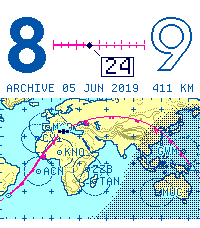
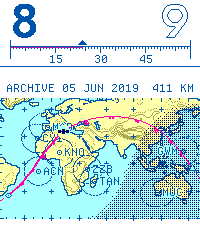
Read the hour on an instrument-style time scale
Replace the minute data block and the large map numerals with a
graduated scale across the top of the face, like an instrument tape or
a chart's scale bar: three pixels a minute, longer marks at five and
fifteen minutes, tall hour marks at both ends under equal hour figures
(this hour solid, the next in outline), and a solid triangular index.
The flown part of the hour fills in the route's color. The scale runs
the way the route runs, so its ends sit over their stations. An
optional plain minute figure replaces the data-block toggle.

Claude-Session: https://claude.ai/code/session_013jrbqnwLffJYPYurYaCgSZ

Changed region(s): [[0.0, 0.0, 1.0, 0.3377]]

diff --git a/src/enroute-render.js b/src/enroute-render.js
@@ -42,9 +42,11 @@ export const CONTOURS=[500,1000,2000,3000,4000,5000],SHELF=-200;
 // above a station's horizon (about 15.6 degrees of arc).
 const EARTH=6371,ORBIT=410,MASK=5*RAD;
 export const ACQUISITION=(Math.acos(EARTH*Math.cos(MASK)/(EARTH+ORBIT))-MASK)/RAD;
-export const FIGURE={hour:80,hourTwo:72};
+export const FIGURE={scale:40};
+// The time scale's panel: 180 px for 60 minutes, three pixels a minute.
+export const SCALE={x0:10,x1:190,baseline:46,panel:67};
 // Chart lettering: Departure Mono, drawn on the display's own pixel grid.
-const LABEL=departure.regular,TAG=departure.double;
+const LABEL=departure.regular;
 
 function plot(buf,x,y,c){x=Math.round(x);y=Math.round(y);if(x<0||y<0||x>=W||y>=H)return;const i=(y*W+x)*3;buf[i]=c[0];buf[i+1]=c[1];buf[i+2]=c[2];}
 function segment(a,b,fn){
@@ -100,7 +102,7 @@ export function contourLevel(relief,land,i){
 
 const BAYER=[0,8,2,10,12,4,14,6,3,11,1,9,15,7,13,5];
 const HEXAGON=['..###..','.#...#.','#.....#','.#...#.','..###..'],TRIANGLE=['....#....','...#.#...','...#.#...','..#...#..','..#...#..','.#.....#.','#########'];
-export function renderEnroute({camera,ground,relief,light:zones,plate,epoch,timeZone,clock24,tag=true}){
+export function renderEnroute({camera,ground,relief,light:zones,plate,epoch,timeZone,clock24,readout=false}){
   const pal=PLATES[plate],buf=new Uint8ClampedArray(W*H*3),mat=ground.material,sun=position('sun',Math.floor(epoch/MINUTE)*MINUTE).dir;
   const light=pal.night==='screen'?new Uint8Array(W*H):zones,land=mat.map(m=>m===LAND?1:0);
   const zoneAt=(x,y)=>light[Math.max(0,Math.min(H-1,Math.round(y)))*W+Math.max(0,Math.min(W-1,Math.round(x)))];
@@ -132,7 +134,7 @@ export function renderEnroute({camera,ground,relief,light:zones,plate,epoch,time
   };
   // Graticule: small crosses every five degrees (thirty on the world band)
   // and degree ticks along the edges of the map, like a chart's neatline.
-  const step=camera.world?30:5,minor=camera.world?10:1,{top,bottom}=camera.band,inBand=y=>y>=top&&y<=bottom;
+  const step=camera.world?30:5,minor=camera.world?10:1,{bottom}=camera.band,top=camera.world?camera.band.top:SCALE.panel,inBand=y=>y>=top&&y<=bottom;
   const g0=camera.toGround(0,bottom),g1=camera.toGround(W,top);
   for(let lat=Math.ceil(g0.lat/step)*step;lat<=g1.lat;lat+=step)for(let lon=Math.ceil(g0.lon/step)*step;lon<=g1.lon;lon+=step){
     const p=camera.toScreen(lat,lon),x=Math.round(p.x),y=Math.round(p.y);if(!inBand(y))continue;
@@ -180,7 +182,6 @@ export function renderEnroute({camera,ground,relief,light:zones,plate,epoch,time
     const p=track[i];if(!p.hour)continue;const m=Math.round((p.epoch-s0.epoch)/MINUTE);if(m%5||m===0||m===60)continue;
     const a=track[i-1],b=track[i+1],len=Math.hypot(b.x-a.x,b.y-a.y)||1;let nx=-(b.y-a.y)/len,ny=(b.x-a.x)/len;if(ny<0){nx=-nx;ny=-ny;}
     const size=m%15===0?4:2;for(let s=1;s<=size;s++)plot(buf,p.x+nx*s,p.y+ny*s,ink('route')(p.x,p.y));
-    if(m%15===0&&!camera.world){const label=String(m);letter(textPixels(LABEL,label,Math.round(p.x+nx*6-textWidth(LABEL,label)/2),Math.round(p.y+ny*6+8)),ink('route'),0);}
   }
   // This hour's station is a VOR: a hexagon inside a compass rose, north up.
   // The next hour is an open triangle, a reporting point.
@@ -214,42 +215,41 @@ export function renderEnroute({camera,ground,relief,light:zones,plate,epoch,time
     for(let k=-5;k<=5;k++){plot(buf,mx+k,my,mk);if(Math.abs(k)>=3){plot(buf,mx+k,my-1,mk);plot(buf,mx+k,my+1,mk);}}
     for(let k=-2;k<=2;k++)for(let d=-1;d<=1;d++)plot(buf,mx+d,my+k,mk);
   }
-  // The hours stand over their stations: this hour large, the next smaller.
+  // The hour is read on a scale across the top of the face, built like an
+  // instrument tape or a chart's scale bar: a baseline with minute, five-
+  // minute and quarter-hour graduations, tall hour marks at both ends with
+  // their figures, and a solid triangular index at the present minute. The
+  // scale runs the way the route does, so its ends match the stations below.
   const parts=clockParts(epoch,timeZone),h=Number(parts.h),hour=String(clock24?h:h%12||12),next=String(clock24?(h+1)%24:(h+1)%12||12);
-  // Both hours share one size and one baseline; the next is drawn in outline.
-  const big=hour.length>1||next.length>1?FIGURE.hourTwo:FIGURE.hour,hw=runWidth(hour,big),nw=runWidth(next,big);
-  const gx=Math.max(8,Math.min(W-8-hw,Math.round(c0.x-hw/2))),gy=camera.world?Math.round((top-runHeight(big))/2)-4:c0.y-26-runHeight(big);
-  const nx=Math.max(8,Math.min(W-8-nw,Math.round(c1.x-nw/2))),ny=gy;
-  const hourPixels=figurePixels(hour,big,gx,gy),nextSolid=figurePixels(next,big,nx,ny),inside=new Set(nextSolid.map(([a,b])=>a+','+b));
-  const nextPixels=nextSolid.filter(([a,b])=>[[1,0],[-1,0],[0,1],[0,-1],[2,0],[-2,0],[0,2],[0,-2]].some(([dx,dy])=>!inside.has((a+dx)+','+(b+dy))));
-  letter(hourPixels,ink('ink'));letter(nextPixels,ink('ink'));
-  // The minute rides with the body in a data block, as a radar display tags
-  // a target: a leader line from the symbol to a boxed readout. It points
-  // toward the middle of the screen so it never leaves the chart.
-  let tagBox=null;
-  const dataBlock=(ax,ay,down,color,reach=12)=>{
-    const text=parts.m,tw=textWidth(TAG,text),bw=tw+5,bh=20,side=ax>W/2?-1:1;
-    const ex=ax+side*Math.min(reach,12),ey=ay+(down?reach:-reach),bx=side>0?ex:ex-bw+1,by=down?ey:ey-bh+1;
-    const box={x:Math.max(2,Math.min(W-2-bw,bx)),y:by,w:bw,h:bh};
-    segment({x:ax+side*5,y:ay+(down?5:-5)},{x:ex,y:ey},(x,y)=>{clear(x+1,y);clear(x-1,y);});
-    segment({x:ax+side*5,y:ay+(down?5:-5)},{x:ex,y:ey},(x,y)=>plot(buf,x,y,color));
-    for(let y=box.y-1;y<=box.y+box.h;y++)for(let x=box.x-1;x<=box.x+box.w;x++)clear(x,y);
-    for(let x=box.x;x<box.x+box.w;x++){plot(buf,x,box.y,color);plot(buf,x,box.y+box.h-1,color);}
-    for(let y=box.y;y<box.y+box.h;y++){plot(buf,box.x,y,color);plot(buf,box.x+box.w-1,y,color);}
-    for(const [a,b] of textPixels(TAG,text,box.x+3,box.y+box.h-3))plot(buf,a,b,color);
-    tagBox=box;
-  };
-  if(camera.world){
-    // The ISS hour as a railway between its two figures: ties every five
-    // minutes, bold where the hour has run, a diamond at the present.
-    const left=Math.min(gx+hw,nx+nw)+7,right=Math.max(gx,nx)-7,ty=gy+Math.round(runHeight(big)/2),forward=nx>gx;
-    const f=Math.max(0,Math.min(1,(epoch-s0.epoch)/(60*MINUTE))),at=m=>forward?left+(right-left)*m/60:right-(right-left)*m/60;
-    const tx=Math.round(at(f*60)),rc=ink('route');
-    for(let x=left;x<=right;x++){plot(buf,x,ty,rc(x,ty));if(forward?x<=tx:x>=tx)plot(buf,x,ty-1,rc(x,ty));}
-    for(let m=0;m<=60;m+=5){const x=Math.round(at(m)),len=m%15===0?4:2;for(let d=1;d<=len;d++){plot(buf,x,ty-1-d,rc(x,ty));plot(buf,x,ty+d,rc(x,ty));}}
-    for(let dy=-3;dy<=3;dy++)for(let dx=-3;dx<=3;dx++){const r=Math.abs(dx)+Math.abs(dy);if(r<=4)clear(tx+dx,ty+dy);if(r<=3)plot(buf,tx+dx,ty+dy,mk);}
-    if(tag)dataBlock(tx,ty,true,ink('mark')(tx,ty));
-  }else if(tag)dataBlock(mx,my,true,mk,20);
+  const {x0:X0,x1:X1,baseline:B,panel:P}=SCALE,forward=c1.x>c0.x,at=m=>forward?X0+(X1-X0)*m/60:X1-(X1-X0)*m/60;
+  const minutes=Math.max(0,Math.min(60,(epoch-s0.epoch)/MINUTE)),ix=Math.round(at(Math.floor(minutes)));
+  for(let y=0;y<P;y++)for(let x=0;x<W;x++)plot(buf,x,y,pal.space);
+  const sc=()=>pal.spaceInk,fill=pal.route[0];
+  for(let x=0;x<W;x++)plot(buf,x,P-1,sc());
+  for(let x=X0;x<=X1;x++){plot(buf,x,B,sc());if(forward?x<=ix:x>=ix)plot(buf,x,B+1,fill);}
+  for(let m=0;m<=60;m++){
+    const x=Math.round(at(m)),len=m%60===0?12:m%15===0?6:m%5===0?4:2;
+    for(let d=1;d<=len;d++)plot(buf,x,B+d,sc());
+    if(m%60===0)for(let d=1;d<=6;d++)plot(buf,x,B-d,sc());
+    if(m%15===0&&m%60){const label=String(m),lw=textWidth(LABEL,label);for(const [a,b] of textPixels(LABEL,label,x-Math.floor(lw/2)+1,B+17))plot(buf,a,b,sc());}
+  }
+  // Both hours share one size; this hour is solid, the next in outline.
+  const size=FIGURE.scale,hw=runWidth(hour,size),nw=runWidth(next,size),place=(end,w)=>end===X0?X0+3:X1-w-2;
+  const gx=place(forward?X0:X1,hw),nx=place(forward?X1:X0,nw),gy=4;
+  const hourPixels=figurePixels(hour,size,gx,gy),nextSolid=figurePixels(next,size,nx,gy),inside=new Set(nextSolid.map(([a,b])=>a+','+b));
+  const nextPixels=nextSolid.filter(([a,b])=>[[1,0],[-1,0],[0,1],[0,-1]].some(([dx,dy])=>!inside.has((a+dx)+','+(b+dy))));
+  for(const [a,b] of hourPixels)plot(buf,a,b,sc());for(const [a,b] of nextPixels)plot(buf,a,b,sc());
+  // The index: a solid triangle on the graduations, pointing at the minute.
+  for(let k=0;k<6;k++)for(let d=-k;d<=k;d++){plot(buf,ix+d,B-7+k,pal.space);}
+  for(let k=0;k<5;k++)for(let d=-k;d<=k;d++)plot(buf,ix+d,B-6+k,sc());
+  let minuteBox=null;
+  if(readout){
+    // Optional digital minute, set plainly over the index.
+    const lw=textWidth(LABEL,parts.m),lo=Math.min(gx,nx)===X0+3?X0+3+Math.max(hw,nw)+3:X0+3,hi=X1-2-Math.max(hw,nw)-3-lw;
+    const lx=Math.max(Math.min(lo,hi),Math.min(Math.max(lo,hi),Math.round(ix-lw/2)));
+    for(const [a,b] of textPixels(LABEL,parts.m,lx,B-10))plot(buf,a,b,sc());
+    minuteBox={x:lx,y:B-18,w:lw,h:8};
+  }
   // Margins: the ISS archive and altitude; otherwise the date in the chart's
   // own terms, with the day of the year as mission control kept it.
   const margin=(l,r,y,color)=>{letter(textPixels(LABEL,l,6,y),color,1);letter(textPixels(LABEL,r,W-6-textWidth(LABEL,r),y),color,1);};
@@ -265,7 +265,7 @@ export function renderEnroute({camera,ground,relief,light:zones,plate,epoch,time
     margin(`${String(d.day).padStart(2,'0')} ${MONTHS[d.month-1]} ${d.year}`,`DAY ${String(d.dayOfYear).padStart(3,'0')}`,H-5,ink('ink'));
   }
   return {buf,marker:{x:p.x,y:p.y,lat:body.lat,lon:body.lon},stations,
-    figure:{hour,minute:parts.m,next,box:bounds(hourPixels),nextBox:bounds(nextSolid),tag:tagBox},rose:camera.world?null:{...c0,r:20}};
+    figure:{hour,minute:parts.m,next,box:bounds(hourPixels),nextBox:bounds(nextSolid),index:{x:ix,y:B},readout:minuteBox},rose:camera.world?null:{...c0,r:20}};
 }
 // The calendar date where the watch is, and its day of the year.
 const dateFormats=new Map();
@@ -279,15 +279,15 @@ export function localDate(epoch,timeZone){
 export class EnrouteRenderer{
   constructor(atlas,meters){this.atlas=atlas;this.meters=meters;this.stats={geometryBuilds:0,lightBuilds:0,renders:0};}
   render(state){
-    const {body,epoch,timeZone,clock24,plate}=state,tag=state.tag!==false,start=civilHour(epoch,timeZone);
+    const {body,epoch,timeZone,clock24,plate}=state,readout=!!state.readout,start=civilHour(epoch,timeZone);
     const geometryKey=`${body}/${start}`,lightKey=`${geometryKey}/${Math.floor(epoch/MINUTE)}`;
     if(this.geometryKey!==geometryKey){
       this.camera=chartCamera(body,start);this.ground=groundLayer(this.camera,this.atlas);this.relief=reliefLayer(this.camera,this.meters);
       this.geometryKey=geometryKey;this.stats.geometryBuilds++;
     }
     if(this.lightKey!==lightKey){this.light=lightLayer(this.ground,epoch);this.lightKey=lightKey;this.stats.lightBuilds++;}
-    const sceneKey=`${lightKey}/${timeZone}/${clock24}/${plate}/${tag}`;if(this.sceneKey===sceneKey)return this.last;
-    const out=renderEnroute({camera:this.camera,ground:this.ground,relief:this.relief,light:this.light,plate,epoch,timeZone,clock24,tag});
+    const sceneKey=`${lightKey}/${timeZone}/${clock24}/${plate}/${readout}`;if(this.sceneKey===sceneKey)return this.last;
+    const out=renderEnroute({camera:this.camera,ground:this.ground,relief:this.relief,light:this.light,plate,epoch,timeZone,clock24,readout});
     const zones=[0,0,0];for(const z of this.light)zones[z]++;
     this.sceneKey=sceneKey;this.stats.renders++;
     const rgba=new Uint8ClampedArray(W*H*4);for(let i=0;i<W*H;i++){rgba.set(out.buf.subarray(i*3,i*3+3),i*4);rgba[i*4+3]=255;}

diff --git a/index.html b/index.html
@@ -10,9 +10,9 @@
 <fieldset id="live-satellites"><legend>Live satellites</legend><div class="live-row"><select id="sat-select" aria-label="Satellite"></select><button id="sat-track">Track now</button></div><p class="help" id="sat-status">Current orbital elements come from CelesTrak, at most once every two hours per satellite, and are used only within three days of their own epoch.</p></fieldset>
 <fieldset id="moon-light"><legend>Moonlight</legend><div class="segmented"><button data-observation="day" aria-pressed="true">By day</button><button data-observation="dusk" aria-pressed="false">Nightfall</button><button data-observation="night" aria-pressed="false">By night</button></div><p class="help">The same Moon over three evenings. On the paper plates, night is a printed dot tint that deepens through civil twilight.</p></fieldset>
 <fieldset><legend>Plate</legend><div id="enroute-plates" class="theme-options"></div></fieldset>
-<fieldset><legend>Read the chart</legend><p class="help">The solid figure is this hour and the outlined one the next, set at one size on one baseline. The symbol between them is the present: its place on the route is the minute, read like a hand. A leader line ties it to a boxed data block with the minute in digits, the way a radar display tags a target; it can be switched off under Clock. The compass rose marks this hour’s station; the open triangle is the next hour’s reporting point. The magenta line is the route, bold behind the marker and fine ahead, with the quarter hours marked. Contours fall every 1,000 m, dotted at 500 m; offshore, the dotted blue line is the 200 m edge of the continental shelf. Three-letter codes are the tracking stations of NASA’s Mercury and Apollo networks. The margin carries the date and its day of the year.</p></fieldset>
-<details class="art-options"><summary>Clock</summary><div><label class="select-label" for="enroute-zone">Clock zone<select id="enroute-zone"><option value="America/New_York">Eastern time</option><option value="UTC">UTC</option><option value="Europe/London">London</option><option value="Asia/Kolkata">Kolkata</option></select></label><label class="art-checkbox"><input type="checkbox" id="enroute-24"> 24-hour figures</label><label class="art-checkbox"><input type="checkbox" id="enroute-tag" checked> Minute data block</label></div></details><div class="art-study-date"><span id="enroute-date"></span><span>FROZEN STUDY</span></div></aside></section>
+<fieldset><legend>Read the chart</legend><p class="help">The time is read on the scale across the top, built like an instrument tape or a chart’s scale bar. It has a graduation every minute, longer marks every five and fifteen, and tall hour marks at each end under their figures. The solid triangle is the index; the magenta fill behind it is the hour already flown. The scale runs the way the route runs on the map, so each end sits over its own station: this hour’s compass rose and the next hour’s reporting point. A plain minute figure can be added under Clock. Contours fall every 1,000 m, dotted at 500 m; offshore, the dotted blue line is the 200 m edge of the continental shelf. Three-letter codes are the tracking stations of NASA’s Mercury and Apollo networks. The margin carries the date and its day of the year.</p></fieldset>
+<details class="art-options"><summary>Clock</summary><div><label class="select-label" for="enroute-zone">Clock zone<select id="enroute-zone"><option value="America/New_York">Eastern time</option><option value="UTC">UTC</option><option value="Europe/London">London</option><option value="Asia/Kolkata">Kolkata</option></select></label><label class="art-checkbox"><input type="checkbox" id="enroute-24"> 24-hour figures</label><label class="art-checkbox"><input type="checkbox" id="enroute-readout"> Minute figure over the index</label></div></details><div class="art-study-date"><span id="enroute-date"></span><span>FROZEN STUDY</span></div></aside></section>
 <section class="compare"><div class="section-heading"><p class="eyebrow">AT READING SIZE</p><p>One display pixel per pixel. The same minute on each plate.</p></div><div id="enroute-proofs" class="comparison-grid"></div></section>
-<section class="reading art-reading"><article><p class="eyebrow">THE CHART</p><h2>Real ground, lightly drawn.</h2><p>Relief comes from NOAA’s ETOPO1 and the USGS GMTED2010 elevation models, generalized and contoured like a jet navigation chart. The continental shelf edge is the real 200 m depth line. Small crosses mark every five degrees, and degree ticks run around the edge like a neatline.</p></article><article><p class="eyebrow">THE ROUTE</p><h2>Two fixes and a magenta line.</h2><p>This hour is a VOR in its compass rose; the next is a reporting point. The route is the magenta line pilots follow on every modern display. The hours stand over their fixes; the minute travels between them in a radar-style data block on a leader line.</p></article><article><p class="eyebrow">THE NETWORK</p><h2>Where the astronauts were heard.</h2><p>Codes like TAN, CRO and GDS mark stations of the Mercury and Apollo tracking networks. For the ISS, each carries its acquisition circle, the reach of a low orbit, as drawn on the world maps of the first mission control rooms.</p></article></section>
+<section class="reading art-reading"><article><p class="eyebrow">THE CHART</p><h2>Real ground, lightly drawn.</h2><p>Relief comes from NOAA’s ETOPO1 and the USGS GMTED2010 elevation models, generalized and contoured like a jet navigation chart. The continental shelf edge is the real 200 m depth line. Small crosses mark every five degrees, and degree ticks run around the edge like a neatline.</p></article><article><p class="eyebrow">THE ROUTE</p><h2>Two fixes and a magenta line.</h2><p>This hour is a VOR in its compass rose; the next is a reporting point. The route is the magenta line pilots follow on every modern display. The hour is read on a graduated scale, like an instrument tape, with a triangular index; its ends match the fixes on the map.</p></article><article><p class="eyebrow">THE NETWORK</p><h2>Where the astronauts were heard.</h2><p>Codes like TAN, CRO and GDS mark stations of the Mercury and Apollo tracking networks. For the ISS, each carries its acquisition circle, the reach of a low orbit, as drawn on the world maps of the first mission control rooms.</p></article></section>
 <details class="technical"><summary>About this working study</summary><div><p>This is a browser design study, not an installable watchface. Every watch pixel is one of the display’s 64 RGB222 colors. The map is north-up and equidistant cylindrical; for the Sun and Moon the hour’s two stations sit 128 pixels apart, and the ISS, which travels about 240° of longitude in an hour, is shown on a world band. Scenes are frozen until you interact: there is no animation loop, polling, geolocation or sensor use.</p><p>Coastlines are Natural Earth 1:50m land. Relief is a quarter-degree grid built from the AWS Open Data Terrain Tiles at zoom 3, whose sources there are NOAA ETOPO1 and USGS GMTED2010, both public domain; heights are smoothed before contouring and are not for navigation. Day, civil twilight and night come from the calculated Sun at the selected minute. Tracking-station positions are approximate, from public histories of the networks. Acquisition circles show where a 410 km orbit rises five degrees above each station’s horizon, about 15.6° of arc.</p><p>Sun and Moon positions come from Astronomy Engine. The “ISS archive” view uses a bounded June 5, 2019 element set from Satellite.js. Live satellites use current element sets fetched from CelesTrak by this page (at most once every two hours per satellite, and only within three days of their epoch) and propagated with SGP4. Figures are Jost, after Futura; chart lettering is Departure Mono by Helena Zhang; headlines are Michroma, after Microgramma. All three are SIL OFL 1.1. <a href="./NOTICE.txt">Sources and credits</a>.</p><p id="enroute-diagnostics"></p><p>Other studies: <a href="./study-05.html">chart</a> · <a href="./study-04.html">Shorelight</a> · <a href="./study-03.html">two-ink atlas</a> · <a href="./study-02.html">sculptural globe</a> · <a href="./study-01.html">orbital explorer</a>.</p></div></details>
 </main><footer class="page-footer"><span>GROUNDTRACK / STUDY 06</span><span>CLEARED DIRECT TO THE NEXT HOUR.</span></footer><script type="module" src="/src/enroute-app.js"></script></body></html>

diff --git a/src/enroute-app.js b/src/enroute-app.js
@@ -12,7 +12,7 @@ const NOTES={
   moon:'The ground directly beneath the Moon. It also runs west, a little more slowly than the Sun.',
   iss:'An archived orbit from 5 June 2019. The station laps most of the world in an hour, so the whole world is the chart.'
 };
-const state={body:'sun',observation:'day',epoch:DEMOS.sun,timeZone:'America/New_York',clock24:false,plate:'enroute',tag:true};
+const state={body:'sun',observation:'day',epoch:DEMOS.sun,timeZone:'America/New_York',clock24:false,plate:'enroute',readout:false};
 let main,studyEpoch=state.epoch;
 const proofs={};
 function paint(canvas,buf){
@@ -21,12 +21,12 @@ function paint(canvas,buf){
 }
 function render(){
   const r=main.render(state);$('enroute-watch').getContext('2d').putImageData(new ImageData(r.rgba,W,H),0,0);
-  for(const plate of Object.keys(PLATES))paint(proofs[plate],plate===state.plate?r.buf:renderEnroute({camera:main.camera,ground:main.ground,relief:main.relief,light:main.light,plate,epoch:state.epoch,timeZone:state.timeZone,clock24:state.clock24,tag:state.tag}).buf);
+  for(const plate of Object.keys(PLATES))paint(proofs[plate],plate===state.plate?r.buf:renderEnroute({camera:main.camera,ground:main.ground,relief:main.relief,light:main.light,plate,epoch:state.epoch,timeZone:state.timeZone,clock24:state.clock24,readout:state.readout}).buf);
   for(const key of ['body','observation','plate'])document.querySelectorAll(`[data-${key}]`).forEach(b=>b.setAttribute('aria-pressed',String(b.dataset[key]===state[key])));
   document.querySelectorAll('[data-observation]').forEach(b=>b.disabled=state.body!=='moon');$('moon-light').classList.toggle('muted',state.body!=='moon');
   $('enroute-minute').value=Math.round((state.epoch-r.start)/MINUTE);$('enroute-time').textContent=r.time;
   $('range-start').textContent=clockParts(r.start,state.timeZone).text;$('range-end').textContent=clockParts(r.start+60*MINUTE,state.timeZone).text;
-  $('enroute-zone').value=state.timeZone;$('enroute-24').checked=state.clock24;$('enroute-tag').checked=state.tag;
+  $('enroute-zone').value=state.timeZone;$('enroute-24').checked=state.clock24;$('enroute-readout').checked=state.readout;
   const sat=catalogEntry(state.body),elements=elementsFor(state.body);
   $('enroute-date').textContent=new Date(state.epoch).toISOString().slice(0,10);$('body-note').textContent=sat?sat.note:NOTES[state.body];
   const lat=r.marker.lat,lon=((r.marker.lon+540)%360)-180,place=`${Math.abs(lat).toFixed(1)}°${lat<0?'S':'N'} ${Math.abs(lon).toFixed(1)}°${lon<0?'W':'E'}`;
@@ -98,6 +98,6 @@ try{
   $('enroute-reset').addEventListener('click',()=>{state.epoch=studyEpoch;render();});
   $('enroute-zone').addEventListener('change',()=>{state.timeZone=$('enroute-zone').value;render();});
   $('enroute-24').addEventListener('change',()=>{state.clock24=$('enroute-24').checked;render();});
-  $('enroute-tag').addEventListener('change',()=>{state.tag=$('enroute-tag').checked;render();});
+  $('enroute-readout').addEventListener('change',()=>{state.readout=$('enroute-readout').checked;render();});
   render();window.groundtrackEnroute={ready:true,state,main,render,track,demos:DEMOS,observations:OBSERVATIONS};
 }catch(error){$('enroute-caption').textContent=`The chart could not load: ${error.message}. Please reload.`;console.error(error);}

diff --git a/tools/generate-enroute-font.py b/tools/generate-enroute-font.py
@@ -12,7 +12,7 @@ from PIL import Image, ImageDraw, ImageFont
 
 root = Path(__file__).resolve().parent.parent
 WEIGHT = 600
-HEIGHTS = {'72': 49, '80': 55}  # two-digit hours, single-digit hours
+HEIGHTS = {'40': 34}  # hour figures over the scale's end marks
 
 
 def font(size):

diff --git a/docs/STUDY-06.md b/docs/STUDY-06.md
@@ -11,12 +11,12 @@ The Study 05 chart, redrawn in the language of aeronautical charts and of NASA's
 - **Graticule.** Small crosses every 5° (30° on the ISS world band). Degree ticks run around the edge of the map like a chart's neatline, with a longer tick every 5°.
 - **The route.** The magenta line, which pilots follow on every glass cockpit. It is bold behind the marker, fine ahead and dashed before and after the hour. Ticks mark five minutes, with longer ticks labelled 15, 30 and 45 at the quarters, as on a plotted ground track.
 - **Fixes.** This hour's station is a VOR: a hexagon inside a compass rose, with 30° ticks, longer cardinal ticks and a north arrowhead. The next hour is an open triangle, a reporting point. The map is north-up, so the rose shows true north, not magnetic variation.
-- **The time.** Both hours are set at one size on one baseline, each over its station: this hour solid, the next in a two-pixel outline, because it has not arrived yet. The minute is not attached to the hour: it travels between them. The body's place on the route is the analog reading. A leader line ties the body to a boxed **data block** with the minute in Departure Mono digits, the way a radar display tags a target with a leader line and a data block. The block always points toward the middle of the screen, drops below the route's quarter marks, and can be switched off to leave a purely analog read. On the ISS band the hour runs on a **railway** between the two figures instead: a line with ties every five minutes, bold where the hour has run, a diamond at the present and the same data block beneath it.
+- **The time scale.** The hour is read on a graduated scale across the top of the face, built like an instrument tape or the scale bar in a chart's margin. It is 180 px for 60 minutes, exactly three pixels a minute, so every graduation is evenly spaced. There is a mark every minute, longer marks every five minutes and at the quarters (labelled 15, 30 and 45), and tall hour marks at both ends. The two hour figures stand over those end marks at one size: this hour solid, the next in outline. A solid triangular index points at the present minute, and the hour already flown fills the scale in the route's color. The scale runs the way the route runs on the map, right to left for the Sun and Moon, so each end sits over its own station. An optional plain minute figure can be set over the index. The earlier radar-style data block and the minutes raised beside the hour were both tried and dropped.
 - **Date.** The zoomed views print the local date and its day of the year in the bottom margin (`27 SEP 2026 · DAY 270`). The day of the year is how Mission Control's clocks counted days. The ISS margin keeps its archive date and altitude.
 - **The present.** The body's own symbol: ☉ for the Sun, the Moon in its calculated phase, or a small station for the ISS.
 - **The network.** Twenty-four stations of the Mercury (1961–63) and Apollo (1967–75) tracking networks, drawn as circled points with their network codes. Examples include TAN (Tananarive, Madagascar), ZZB (Zanzibar), CRO (Carnarvon) and GDS (Goldstone). When labels would collide, the station earlier in the list wins.
 - **Acquisition circles.** On the ISS world band, each station also carries the circle within which a 410 km orbit rises 5° above its horizon, about 15.6° of arc. The circles are computed on the sphere, so they widen toward the poles, as they did on the Mercator plotboards.
-- **Type.** The figures are set in Jost (SIL OFL 1.1), a revival of Futura, the face of the Apollo 11 plaque and many mission patches. Jost replaced Fira Sans after a side-by-side test on the face. Barlow (a DIN-style face) was the close second; Michroma was too wide for the figures at this size. The chart lettering (station codes, quarter-hour marks and margin notes) is [Departure Mono](https://github.com/rektdeckard/departure-mono) (SIL OFL 1.1). It is a pixel face drawn on an 11 px grid, so at 11 px every pixel is fully on or off. A double-size Departure minute set directly after the hour looked spindly, but the same digits work well as the separate data block. On the page, headlines use Michroma (after Microgramma, the lettering of 1960s space hardware), text uses Jost, and small type uses Departure Mono.
+- **Type.** The figures are set in Jost (SIL OFL 1.1), a revival of Futura, the face of the Apollo 11 plaque and many mission patches. Jost replaced Fira Sans after a side-by-side test on the face. Barlow (a DIN-style face) was the close second; Michroma was too wide for the figures at this size. The chart lettering (station codes, quarter-hour marks and margin notes) is [Departure Mono](https://github.com/rektdeckard/departure-mono) (SIL OFL 1.1). It is a pixel face drawn on an 11 px grid, so at 11 px every pixel is fully on or off. A double-size Departure minute set directly after the hour looked spindly. On the page, headlines use Michroma (after Microgramma, the lettering of 1960s space hardware), text uses Jost, and small type uses Departure Mono.
 - **Honest margins.** The ISS view states `ARCHIVE 05 JUN 2019` and the station's altitude, because it is a bounded archive, not live data.
 - **Night.** The paper plates print night as a regular dot screen under every symbol. The screen deepens from nothing at sunset to 25% at the end of civil twilight, which is how a printed chart would overprint a tint. The Plotboard keeps flat light zones.
 

diff --git a/README.md b/README.md
@@ -1,6 +1,6 @@
 # Groundtrack
 
-**The current hour, the next hour, and a path between them.** The ground route of the Sun, Moon or ISS is drawn as an aeronautical chart. Contour relief comes from real elevation data, a magenta route runs between this hour's compass rose and the next hour's reporting point, and the time is set like a chart's maximum elevation figure. The tracking stations of NASA's first networks mark the map, and the calculated Sun brings the night.
+**The current hour, the next hour, and a path between them.** The ground route of the Sun, Moon or ISS is drawn as an aeronautical chart. Contour relief comes from real elevation data, a magenta route runs between this hour's compass rose and the next hour's reporting point, and the time is read on a graduated scale with a triangular index, like an instrument tape. The tracking stations of NASA's first networks mark the map, and the calculated Sun brings the night.
 
 An independent Pebble Time 2 concept, following the pixel-rendering and battery work in [Dymaxion](https://github.com/huntrontrakkr/dymaxion-watch-face). Groundtrack is a working title. This repository contains **browser design studies and a trajectory-cache experiment**, not an installable watchface.
 
@@ -15,7 +15,7 @@ npm ci
 npm run dev
 ```
 
-Open the URL printed by Vite. **Study 06 — Enroute** is the default. It draws in the language of aeronautical charts and 1960s mission control plotboards: contour relief and the continental shelf edge from public-domain elevation data, a graticule with neatline ticks, and the magenta route. A VOR compass rose marks this hour and a reporting point the next. The hour is set large with its minutes raised, and Mercury and Apollo tracking stations appear with their network codes. Three plates are provided: Enroute (IFR white), Sectional (VFR cream) and Plotboard (mission control). Five satellites can be tracked live from CelesTrak element sets: ISS, Tiangong, Hubble, Landsat 9 and NOAA-20. [The Study 06 notes](docs/STUDY-06.md) describe each symbol, the data and the exploration.
+Open the URL printed by Vite. **Study 06 — Enroute** is the default. It draws in the language of aeronautical charts and 1960s mission control plotboards: contour relief and the continental shelf edge from public-domain elevation data, a graticule with neatline ticks, and the magenta route. A VOR compass rose marks this hour and a reporting point the next, and the time is read on a graduated instrument-style scale with a triangular index. Mercury and Apollo tracking stations appear with their network codes. Three plates are provided: Enroute (IFR white), Sectional (VFR cream) and Plotboard (mission control). Five satellites can be tracked live from CelesTrak element sets: ISS, Tiangong, Hubble, Landsat 9 and NOAA-20. [The Study 06 notes](docs/STUDY-06.md) describe each symbol, the data and the exploration.
 
 **Study 05** remains at `/study-05.html`: the flat north-up chart that salvaged the earlier studies ([notes](docs/STUDY-05.md)). **Study 04** remains at `/study-04.html`: Shorelight, with shallow relief monuments and spatial color mixing. **Study 03** remains at `/study-03.html`: a two-ink repeated Fuller atlas with geographic context. **Study 02** remains at `/study-02.html`: rounded hour towers above a perspective globe. **Study 01** remains at `/study-01.html`: the initial landscape, oblique and globe exploration. All six studies stay frozen until you interact. No location or motion sensor is used.
 
